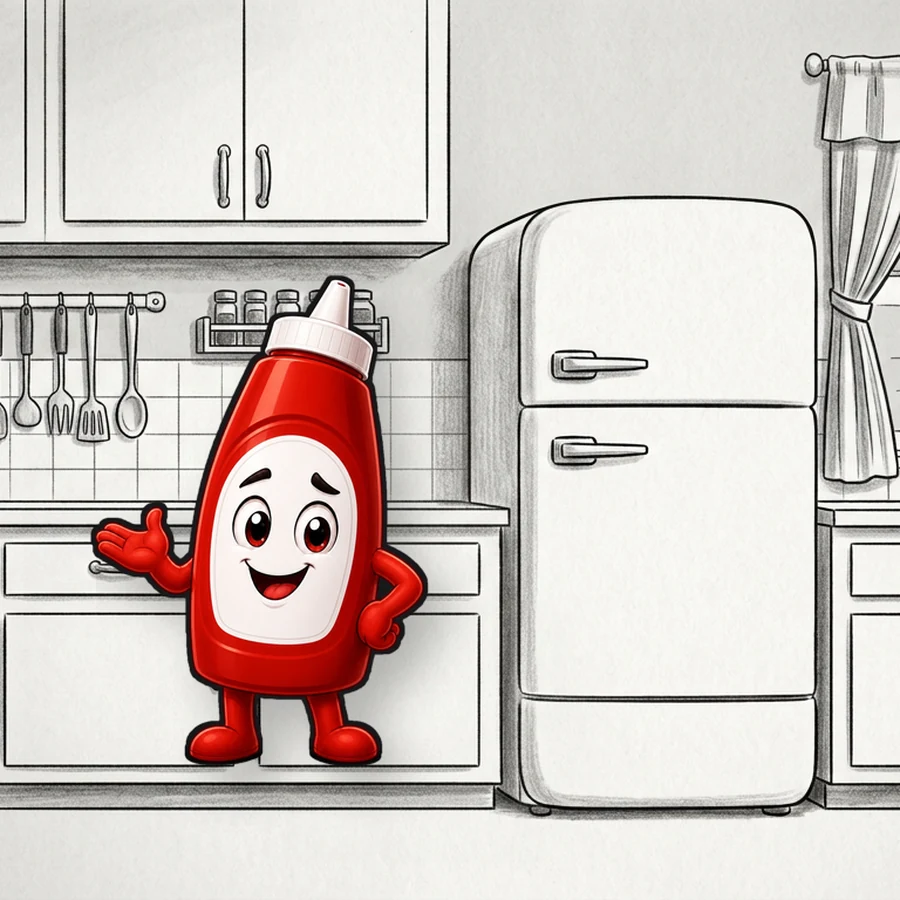
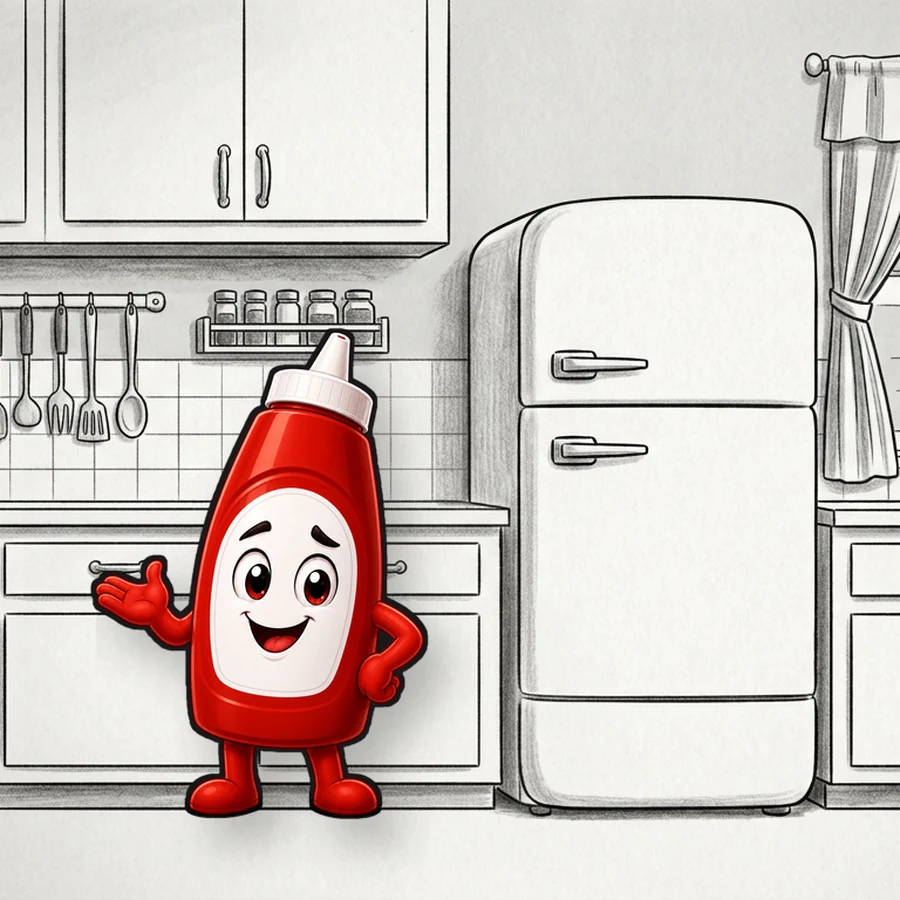
Refine SITE v2.2 Home hero and featured card

Changed region(s): [[0.0933, 0.3111, 0.4978, 0.9644]]

diff --git a/src/index.html b/src/index.html
@@ -194,29 +194,41 @@
 
     .home-kitchen-special {
       display: grid;
-      grid-template-columns: minmax(190px, 0.68fr) minmax(0, 1fr);
+      grid-template-columns: minmax(300px, 0.95fr) minmax(230px, 0.75fr);
       overflow: hidden;
-      min-height: 250px;
+      min-height: 274px;
     }
 
     .home-kitchen-special__art {
       position: relative;
-      min-height: 220px;
-      background: #c9c4ba;
+      display: grid;
+      place-items: center;
+      min-height: 0;
+      padding: 14px;
+      box-sizing: border-box;
+      background:
+        linear-gradient(135deg, rgba(255, 255, 255, 0.5), transparent 55%),
+        repeating-linear-gradient(90deg, rgba(28, 27, 26, 0.04) 0 1px, transparent 1px 28px),
+        #d8d4cb;
     }
 
     .home-kitchen-special__art img {
       width: 100%;
       height: 100%;
-      object-fit: cover;
+      max-height: 220px;
+      object-fit: contain;
       filter: grayscale(1) contrast(1.05);
+      border-radius: 6px;
+      box-shadow: 0 10px 22px rgba(28, 27, 26, 0.22);
     }
 
     .home-kitchen-special__art::after {
       content: "";
       position: absolute;
-      inset: 0;
-      background: linear-gradient(90deg, transparent 45%, rgba(28, 27, 26, 0.16));
+      inset: 14px;
+      border: 1px solid rgba(28, 27, 26, 0.16);
+      border-radius: 6px;
+      box-shadow: inset 0 0 0 1px rgba(255, 255, 255, 0.34);
       pointer-events: none;
     }
 
@@ -432,7 +444,8 @@
       }
 
       .home-kitchen-special__art {
-        min-height: 210px;
+        min-height: 0;
+        aspect-ratio: 16 / 9;
       }
     }
 
@@ -471,7 +484,13 @@
       }
 
       .home-kitchen-special__art {
-        min-height: 172px;
+        min-height: 0;
+        aspect-ratio: 16 / 9;
+        padding: 10px;
+      }
+
+      .home-kitchen-special__art::after {
+        inset: 10px;
       }
 
       .home-kitchen-door {